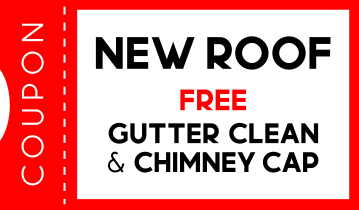
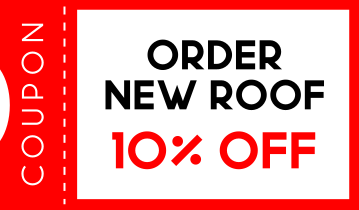
Changed last coupon and Location on hero section

Changed region(s): [[0.2758, 0.5714, 0.8886, 0.8286], [0.2451, 0.1714, 0.9192, 0.3429], [0.2758, 0.3714, 0.9192, 0.5429]]

diff --git a/index.html b/index.html
@@ -62,7 +62,7 @@
                       <span class="wrap"></span>
                     </div>
                 </h1>
-                <p class="motto">Complete Home Repair Services in <a href="https://goo.gl/maps/kBh9xF8ZdUpqXyMn6" class="location">Boston, MA.</a></p>
+                <p class="motto">Complete Home Repair Services in <a href="https://goo.gl/maps/kBh9xF8ZdUpqXyMn6" class="location">Garfield, NJ.</a></p>
             </div>
             <div class="more">
                 <a href="#services" class="scroll" onmouseover="lower()" onmouseout="reset()">Find out more</a>
